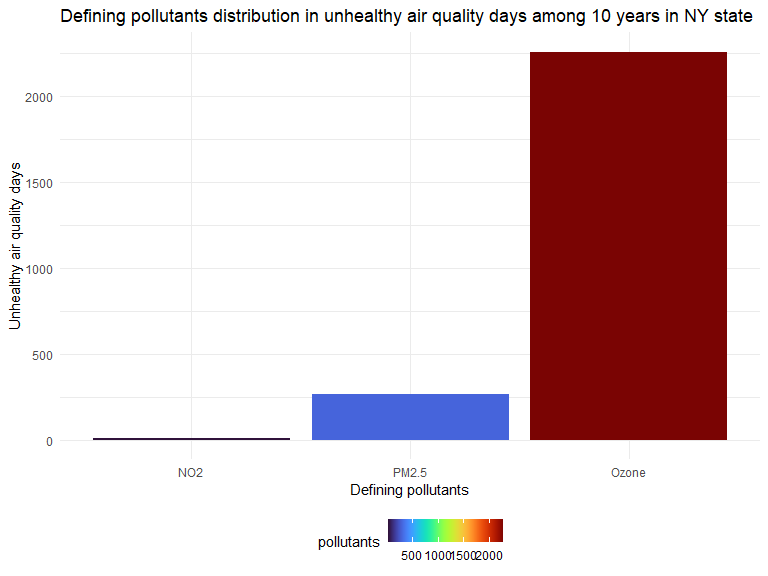
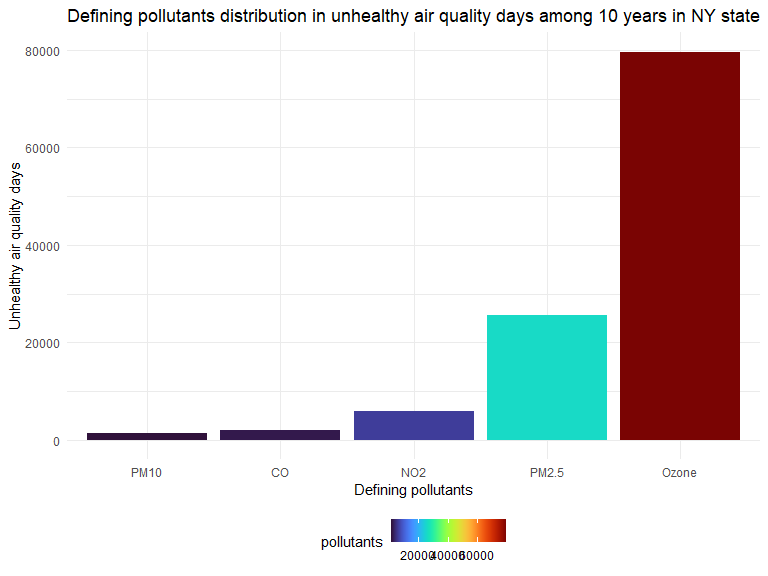
Exploratory analysis - Figure 6

diff --git a/Exploratory-Analysis.md b/Exploratory-Analysis.md
@@ -158,7 +158,33 @@ Unhealthy_air_graph
 
 ### Type of Pollutants in each counties
 
-#### Figure 5: Defining pollutants distribution in unhealthy air quality days
+#### Figure 5: Defining pollutants distribution
+
+``` r
+pollutants_graph = 
+  air_quality_day_df %>% 
+  group_by(defining_parameter) %>% 
+  summarize(
+    pollutants = n()
+  ) %>%
+  mutate(
+    defining_parameter = fct_reorder(defining_parameter, pollutants)
+    ) %>% 
+  ggplot(aes(x = defining_parameter, y = pollutants, fill = pollutants)) +
+  geom_col() +
+  labs(
+    title = "Defining pollutants distribution in unhealthy air quality days among 10 years in NY state",
+    x = "Defining pollutants",
+    y = "Unhealthy air quality days"
+  ) +
+  scale_fill_viridis(option = "turbo")
+
+pollutants_graph
+```
+
+<img src="Exploratory-Analysis_files/figure-gfm/unnamed-chunk-7-1.png" width="90%" />
+
+#### Figure 6: Defining pollutants distribution in unhealthy air quality days
 
 ``` r
 Unhealthy_pollutants_graph = 
@@ -183,7 +209,7 @@ Unhealthy_pollutants_graph =
 Unhealthy_pollutants_graph
 ```
 
-<img src="Exploratory-Analysis_files/figure-gfm/unnamed-chunk-7-1.png" width="90%" />
+<img src="Exploratory-Analysis_files/figure-gfm/unnamed-chunk-8-1.png" width="90%" />
 
 #### Ozone
 
